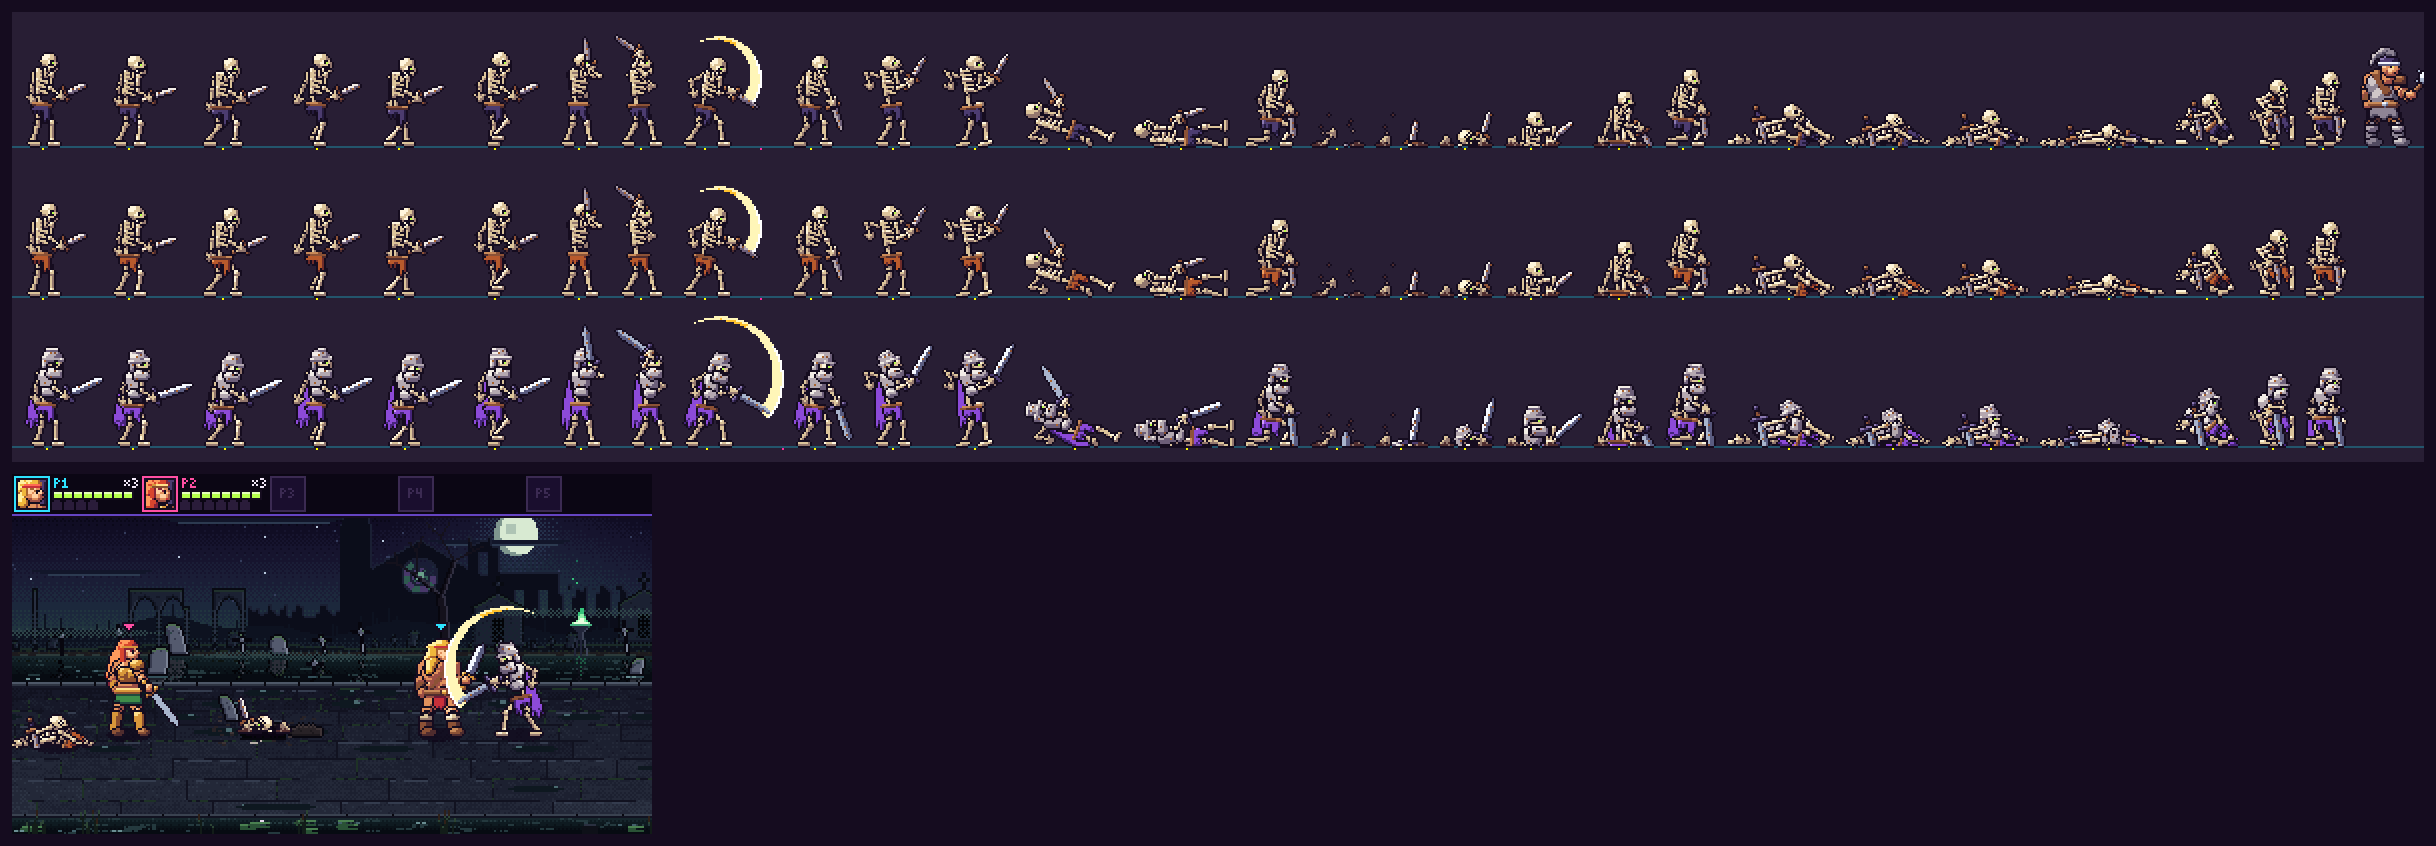
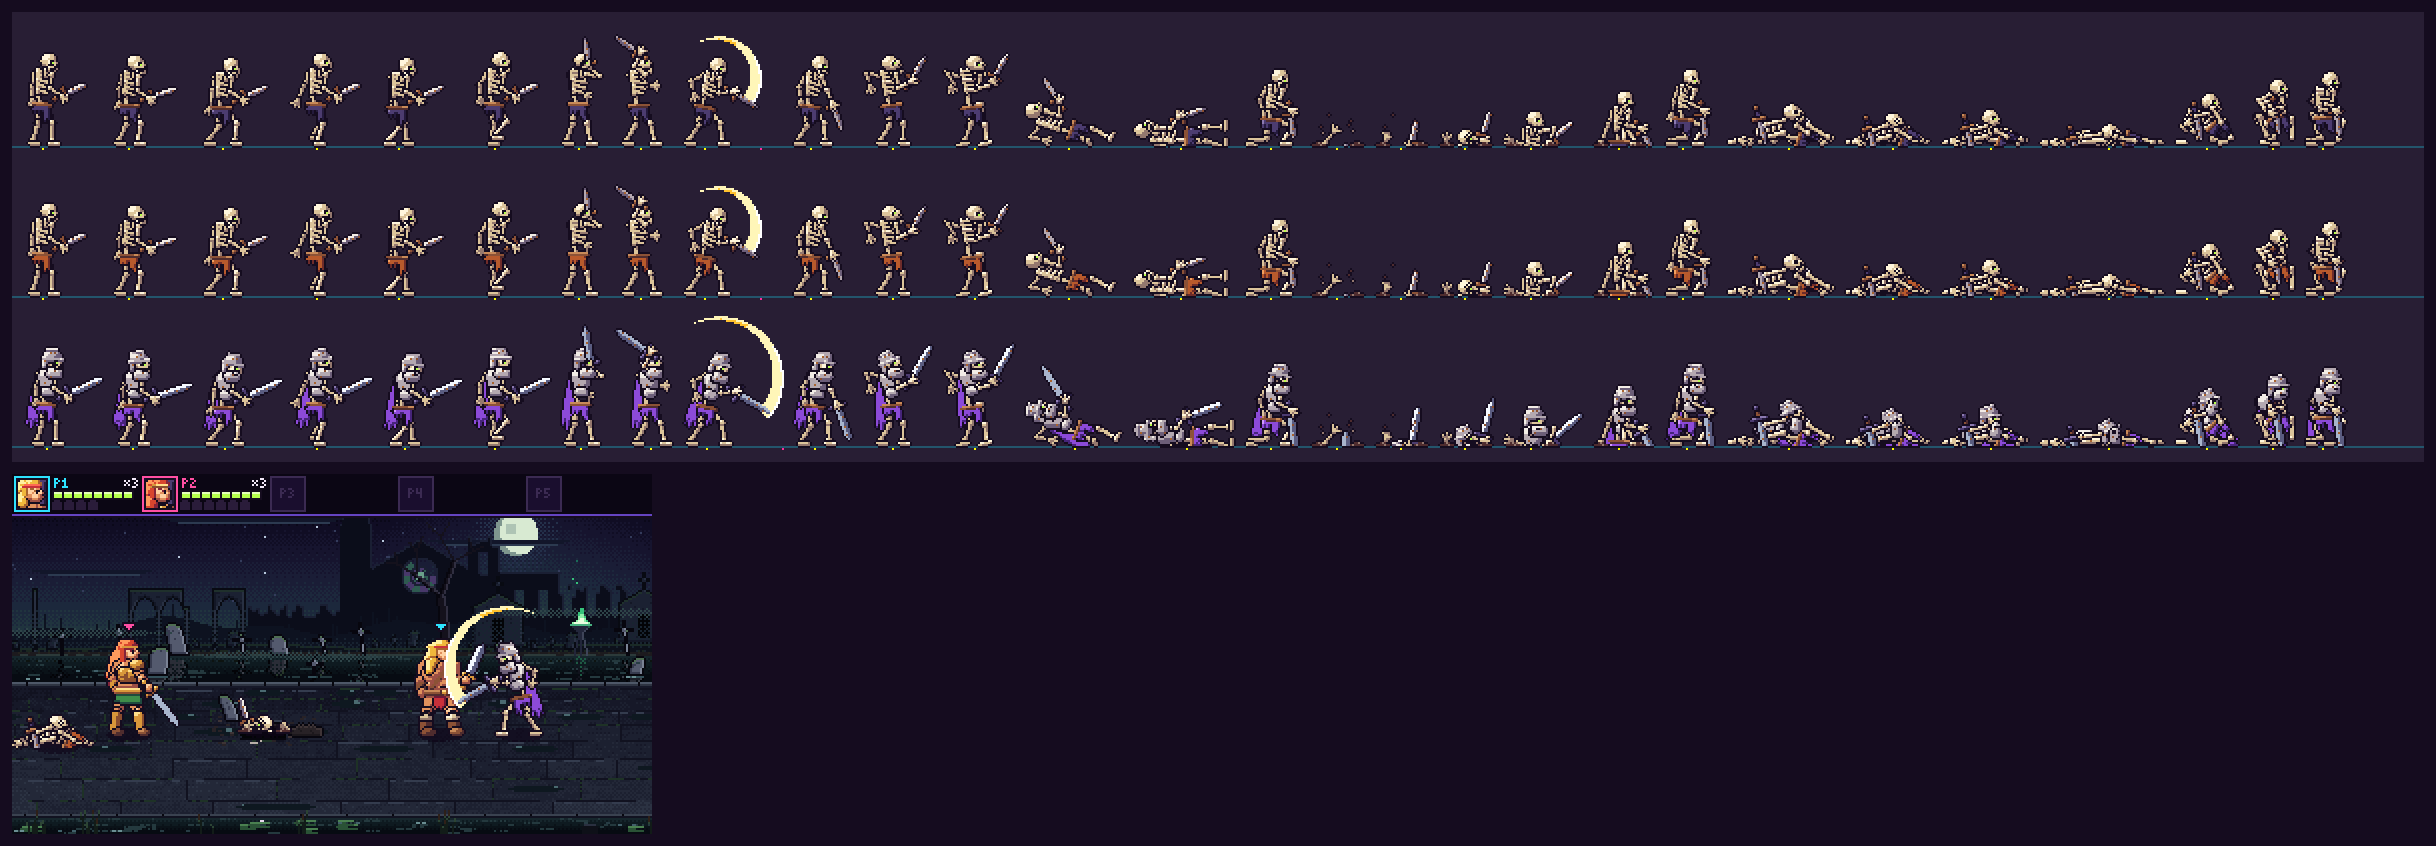
Fuse Axe bonewalker art review: fingers reach on toward the hand's tips, the knight's lab swing winds up as its tier does
The bonewalker's claw turned its three fingers a half turn the wrong way (lean is
clockwise from a straight drop, turned is clockwise from east), so every hand,
the rise's clawing one most of all, was a stub folded back over the forearm; they
now spread on past the knuckles (clawOf, with a test of the geometry at eight
orientations). The lab played every bonewalker's swing with tier 0's 18-step
wind-up, the knight's included, which the engine winds up in 12. A scene test
now plays every enemy state of a bonewalker at every tier and several steps and
asserts the sprite is its own figure's frame, never a ravager's.

The README sheet is repainted with the new hands (cell for cell, matched exactly
against the old render), and loses a stray ravager frame that sat past the end
of the tier 0 row.

Changed region(s): [[0.9672, 0.0615, 0.9984, 0.1844]]

diff --git a/games/fuse-axe/tests/bonewalker-art.test.ts b/games/fuse-axe/tests/bonewalker-art.test.ts
@@ -26,6 +26,7 @@ import {
   BONEWALKER_POSES,
   BONEWALKER_TIERS,
   PILE_STILL,
+  clawOf,
   paintBonewalker,
   type BonewalkerAnim,
   type BonewalkerFrame,
@@ -33,6 +34,7 @@ import {
 import { FIGURES } from "../src/render/art/index.js";
 import { RAVAGER } from "../src/render/art/ravager.js";
 import { MASTER } from "../src/render/pixel/palette.js";
+import type { Point } from "../src/render/pixel/rig.js";
 import {
   CLEAR,
   flipSprite,
@@ -330,4 +332,27 @@ test("each bonewalker anim lasts as long as the engine keeps it: the pile twitch
   // The knight's slash and the stand after it.
   const swing = lasted(play(bonewalker(20, { state: "windup", target: 1 }, 2), 60)); // prettier-ignore
   for (const anim of ["attack", "recover"] as const) assert.equal(swing.get(anim), length(anim)); // prettier-ignore
+});
+
+test("a hand's fingers reach on from its knuckles the way the hand points, the middle one straight on and the others splayed", () => {
+  const near = (a: number, b: number, what: string) =>
+    assert.ok(Math.abs(a - b) < 1e-9, `${what}: ${a}, not ${b}`);
+  for (const degrees of [0, 45, 90, 135, 180, -45, -90, -135]) {
+    const [dx, dy] = [Math.cos((degrees * Math.PI) / 180), Math.sin((degrees * Math.PI) / 180)]; // prettier-ignore
+    const wrist: Point = [10, 10];
+    const { knuckles, fingers } = clawOf([wrist, [10 + 3 * dx, 10 + 3 * dy]]);
+    near(knuckles[0], 10 + 0.75 * dx, `${degrees} knuckles x`);
+    near(knuckles[1], 10 + 0.75 * dy, `${degrees} knuckles y`);
+    // Each finger's tip in the hand's own axes: how far on toward the fingertips, and how far to the side.
+    const own = fingers.map(([x, y]) => [
+      (x - knuckles[0]) * dx + (y - knuckles[1]) * dy,
+      (y - knuckles[1]) * dx - (x - knuckles[0]) * dy,
+    ]);
+    assert.equal(own.length, 3);
+    const half = 3 * Math.SQRT1_2;
+    for (const [i, [ahead, aside]] of own.entries()) {
+      near(ahead!, [half, 3, half][i]!, `${degrees} finger ${i} ahead`);
+      near(aside!, [-half, 0, half][i]!, `${degrees} finger ${i} aside`);
+    }
+  }
 });

diff --git a/games/fuse-axe/src/render/art/bonewalker.ts b/games/fuse-axe/src/render/art/bonewalker.ts
@@ -420,16 +420,25 @@ function long(rig: Rig, [a, b]: Bone, r: number, o: ShapeOptions = {}) {
   rig.ellipse(a, r * 1.4, r * 1.4, BONE, part);
   rig.ellipse(b, r * 1.25, r * 1.25, BONE, part);
 }
-/** A bony hand from the wrist: the knuckles and three long fingers spread toward the tips. */
-function claw(rig: Rig, [wrist, tips]: Bone, o: ShapeOptions = {}) {
-  const part = { ...o, group: rig.newGroup() };
-  const angle = lean(wrist, tips) - 90;
+/** A hand's knuckles, and the tips of its three fingers: 3 px on from them, spread to either side of the way it points. */
+export function clawOf([wrist, tips]: Bone): {
+  readonly knuckles: Point;
+  readonly fingers: readonly Point[];
+} {
+  // `lean` is a line's angle clockwise from a straight drop, `turned` wants it clockwise from east: a quarter turn on.
+  const angle = lean(wrist, tips) + 90;
   const knuckles = between(wrist, tips, 0.25);
+  const fingers = [-45, 0, 45].map((fan) =>
+    turned(knuckles, angle + fan)(3, 0),
+  );
+  return { knuckles, fingers };
+}
+/** A bony hand from the wrist: the knuckles and three long fingers spread toward the tips. */
+function claw(rig: Rig, bone: Bone, o: ShapeOptions = {}) {
+  const part = { ...o, group: rig.newGroup() };
+  const { knuckles, fingers } = clawOf(bone);
   rig.ellipse(knuckles, 1.5, 1.5, BONE, part);
-  for (const fan of [-45, 0, 45]) {
-    const tip = turned(knuckles, angle + fan)(3, 0);
-    rig.capsule(knuckles, tip, 0.75, 0.6, BONE, part);
-  }
+  for (const tip of fingers) rig.capsule(knuckles, tip, 0.75, 0.6, BONE, part);
 }
 
 /** The loincloth's front and back flaps in tatters round the hips, forward and down in the pelvis's axes. */

diff --git a/games/fuse-axe/tests/scene.test.ts b/games/fuse-axe/tests/scene.test.ts
@@ -703,6 +703,35 @@ test("a bonewalker draws its own figure in its tier's rags, the violet one the a
   );
 });
 
+test("no state of a bonewalker, in any tier at any step, draws a frame its own figure lacks, a ravager's stand-in least of all", () => {
+  const { tiers } = ENEMY_ART.bonewalker;
+  for (const tier of [0, 1, 2] as const)
+    for (const anim of ENEMY_STATES)
+      for (const animStep of [0, 1, 7, 29, 59, 149, 1e9, Number.NaN]) {
+        const figure = tier === 2 ? BONE_KNIGHT : BONEWALKER;
+        const frame = enemyFrame("bonewalker", anim, animStep);
+        assert.ok(
+          (figure.frames as readonly string[]).includes(frame),
+          `${tier} ${anim} ${animStep}: ${frame}`,
+        );
+        const { sprites } = draw(
+          world({
+            enemies: [
+              enemy(2, 150, 150, { kind: "bonewalker", tier, anim, animStep }),
+            ],
+          }),
+        );
+        if (anim === "dead" && !deadShows(animStep)) continue;
+        assert.deepEqual(
+          sprites[0]!.image.fills,
+          fillsOf(figure.sprite(frame as BonewalkerFrame), {
+            swap: tiers[tier],
+          }),
+          `${tier} ${anim} ${animStep}`,
+        );
+      }
+});
+
 test("an ogre draws its own figure in its twin's colours on its feet, burns and steams once enraged, casts a bigger shadow, cracks the floor and is cut to the screen", () => {
   const ogre = (x: number, more: Partial<EnemyView> = {}) =>
     draw(

diff --git a/games/fuse-axe/lab/anims.ts b/games/fuse-axe/lab/anims.ts
@@ -323,11 +323,11 @@ for (const animated of ANIMATED) {
   const [gx, gy] = gravesPx(3)[0]!;
   const B = BONEWALKER_STEPS;
   type Plan = readonly (readonly [EnemyAnim, number])[];
-  const swing: Plan = [["windup", B.windup[0]], ["attack", B.attack], ["recover", B.recover]]; // prettier-ignore
+  const swing = (tier: Tier): Plan => [["windup", B.windup[tier]], ["attack", B.attack], ["recover", B.recover]]; // prettier-ignore
   const bones: readonly (readonly [Tier, number, number, Plan])[] = [
-    [0, gx, gy, [["rise", B.rise], ["idle", 30], ...swing, ["idle", 20]]],
+    [0, gx, gy, [["rise", B.rise], ["idle", 30], ...swing(0), ["idle", 20]]],
     [1, gx - 70, gy + 22, [["pile", B.pile], ["reassemble", B.reassemble], ["idle", 30]]], // prettier-ignore
-    [2, gx + 80, gy + 12, [["walk", 48], ...swing, ["idle", 30]]],
+    [2, gx + 80, gy + 12, [["walk", 48], ...swing(2), ["idle", 30]]],
   ];
   const now = (plan: Plan) => {
     let t = step % plan.reduce((sum, [, steps]) => sum + steps, 0);
